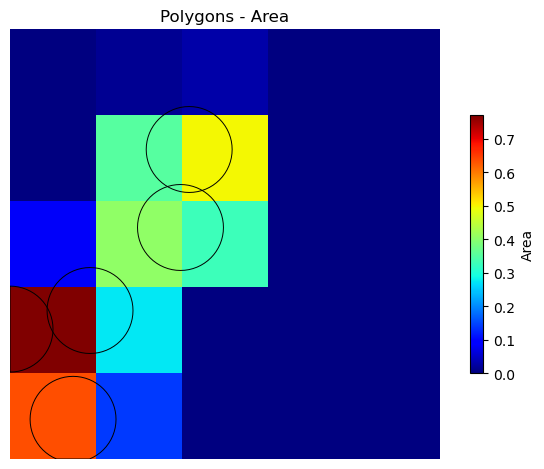
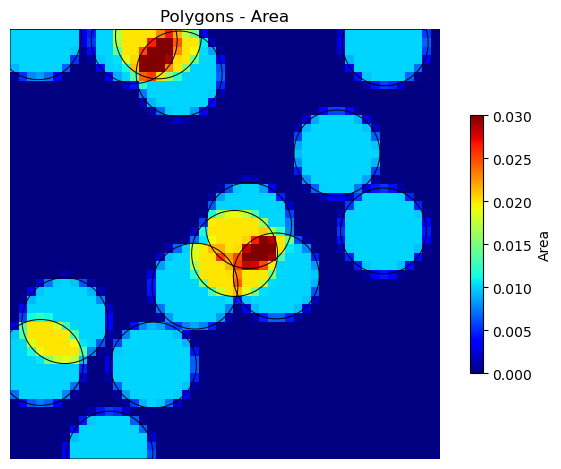
new illustrations

diff --git a/docs/generate_images.py b/docs/generate_images.py
@@ -6,9 +6,29 @@ from shapely.geometry import LineString, Point
 from rasterizer.lines import rasterize_lines
 from rasterizer.polygons import rasterize_polygons
 
+# --- Parameters ---
+GRID_SIZE_X = 50  # Number of grid cells in X
+GRID_SIZE_Y = 50  # Number of grid cells in Y
+GRID_X_MIN = 0  # Minimum X bound
+GRID_X_MAX = 5  # Maximum X bound
+GRID_Y_MIN = 0  # Minimum Y bound
+GRID_Y_MAX = 5  # Maximum Y bound
+NUM_LINES = 13  # Number of lines to generate
+NUM_POLYGONS = 15  # Number of polygons to generate
+SAVE_PATH = "docs/_static"  # Path to save images
+
+
 # Grid setup
-x_centers = np.arange(0.5, 5.5, 1.0)
-y_centers = np.arange(0.5, 5.5, 1.0)
+x_centers = np.linspace(
+    GRID_X_MIN + 0.5 * (GRID_X_MAX - GRID_X_MIN) / GRID_SIZE_X,
+    GRID_X_MAX - 0.5 * (GRID_X_MAX - GRID_X_MIN) / GRID_SIZE_X,
+    GRID_SIZE_X,
+)
+y_centers = np.linspace(
+    GRID_Y_MIN + 0.5 * (GRID_Y_MAX - GRID_Y_MIN) / GRID_SIZE_Y,
+    GRID_Y_MAX - 0.5 * (GRID_Y_MAX - GRID_Y_MIN) / GRID_SIZE_Y,
+    GRID_SIZE_Y,
+)
 dx = x_centers[1] - x_centers[0] if len(x_centers) > 1 else 1.0
 dy = y_centers[1] - y_centers[0] if len(y_centers) > 1 else 1.0
 x_edges = np.arange(x_centers[0] - dx / 2, x_centers[-1] + dx, dx)
@@ -18,9 +38,15 @@ crs = "EPSG:3857"
 # --- Generate Lines ---
 np.random.seed(0)
 lines = []
-for _ in range(8):
-    start = (np.random.rand() * 5, np.random.rand() * 5)
-    end = (np.random.rand() * 5, np.random.rand() * 5)
+for _ in range(NUM_LINES):
+    start = (
+        np.random.rand() * (GRID_X_MAX - GRID_X_MIN) + GRID_X_MIN,
+        np.random.rand() * (GRID_Y_MAX - GRID_Y_MIN) + GRID_Y_MIN,
+    )
+    end = (
+        np.random.rand() * (GRID_X_MAX - GRID_X_MIN) + GRID_X_MIN,
+        np.random.rand() * (GRID_Y_MAX - GRID_Y_MIN) + GRID_Y_MIN,
+    )
     lines.append(LineString([start, end]))
 
 lines_gdf = gpd.GeoDataFrame(geometry=lines, crs=crs)
@@ -34,7 +60,7 @@ plt.gca().set_aspect("equal", adjustable="box")
 plt.gca().axis("off")
 plt.title("Lines - Binary")
 plt.tight_layout()
-plt.savefig("docs/_static/lines_binary.png", bbox_inches="tight")
+plt.savefig(f"{SAVE_PATH}/lines_binary.png", bbox_inches="tight")
 
 # Rasterize lines (length)
 lines_length = rasterize_lines(lines_gdf, x_centers, y_centers, crs, mode="length")
@@ -46,25 +72,23 @@ plt.gca().set_aspect("equal", adjustable="box")
 plt.gca().axis("off")
 plt.title("Lines - Length")
 plt.tight_layout()
-plt.savefig("docs/_static/lines_length.png", bbox_inches="tight")
+plt.savefig(f"{SAVE_PATH}/lines_length.png", bbox_inches="tight")
 
 
 # --- Generate Polygons ---
-np.random.seed(1)
+np.random.seed(8)
 polygons = []
-for _ in range(5):
-    point = Point(np.random.rand() * 5, np.random.rand() * 5)
+for _ in range(NUM_POLYGONS):
+    point = Point(
+        np.random.rand() * (GRID_X_MAX - GRID_X_MIN) + GRID_X_MIN,
+        np.random.rand() * (GRID_Y_MAX - GRID_Y_MIN) + GRID_Y_MIN,
+    )
     polygons.append(point.buffer(0.5))
 
 polygons_gdf = gpd.GeoDataFrame(geometry=polygons, crs=crs)
 polygons_gdf = gpd.clip(
     polygons_gdf,
-    mask=(
-        0,
-        0,
-        6,
-        6,
-    ),
+    mask=(GRID_X_MIN, GRID_Y_MIN, GRID_X_MAX, GRID_Y_MAX),
 )
 
 # Rasterize polygons (binary)
@@ -76,7 +100,7 @@ plt.gca().set_aspect("equal", adjustable="box")
 plt.gca().axis("off")
 plt.title("Polygons - Binary")
 plt.tight_layout()
-plt.savefig("docs/_static/polygons_binary.png", bbox_inches="tight")
+plt.savefig(f"{SAVE_PATH}/polygons_binary.png", bbox_inches="tight")
 
 # Rasterize polygons (area)
 polygons_area = rasterize_polygons(polygons_gdf, x_centers, y_centers, crs, mode="area")
@@ -88,4 +112,4 @@ plt.gca().set_aspect("equal", adjustable="box")
 plt.gca().axis("off")
 plt.title("Polygons - Area")
 plt.tight_layout()
-plt.savefig("docs/_static/polygons_area.png", bbox_inches="tight")
+plt.savefig(f"{SAVE_PATH}/polygons_area.png", bbox_inches="tight")
